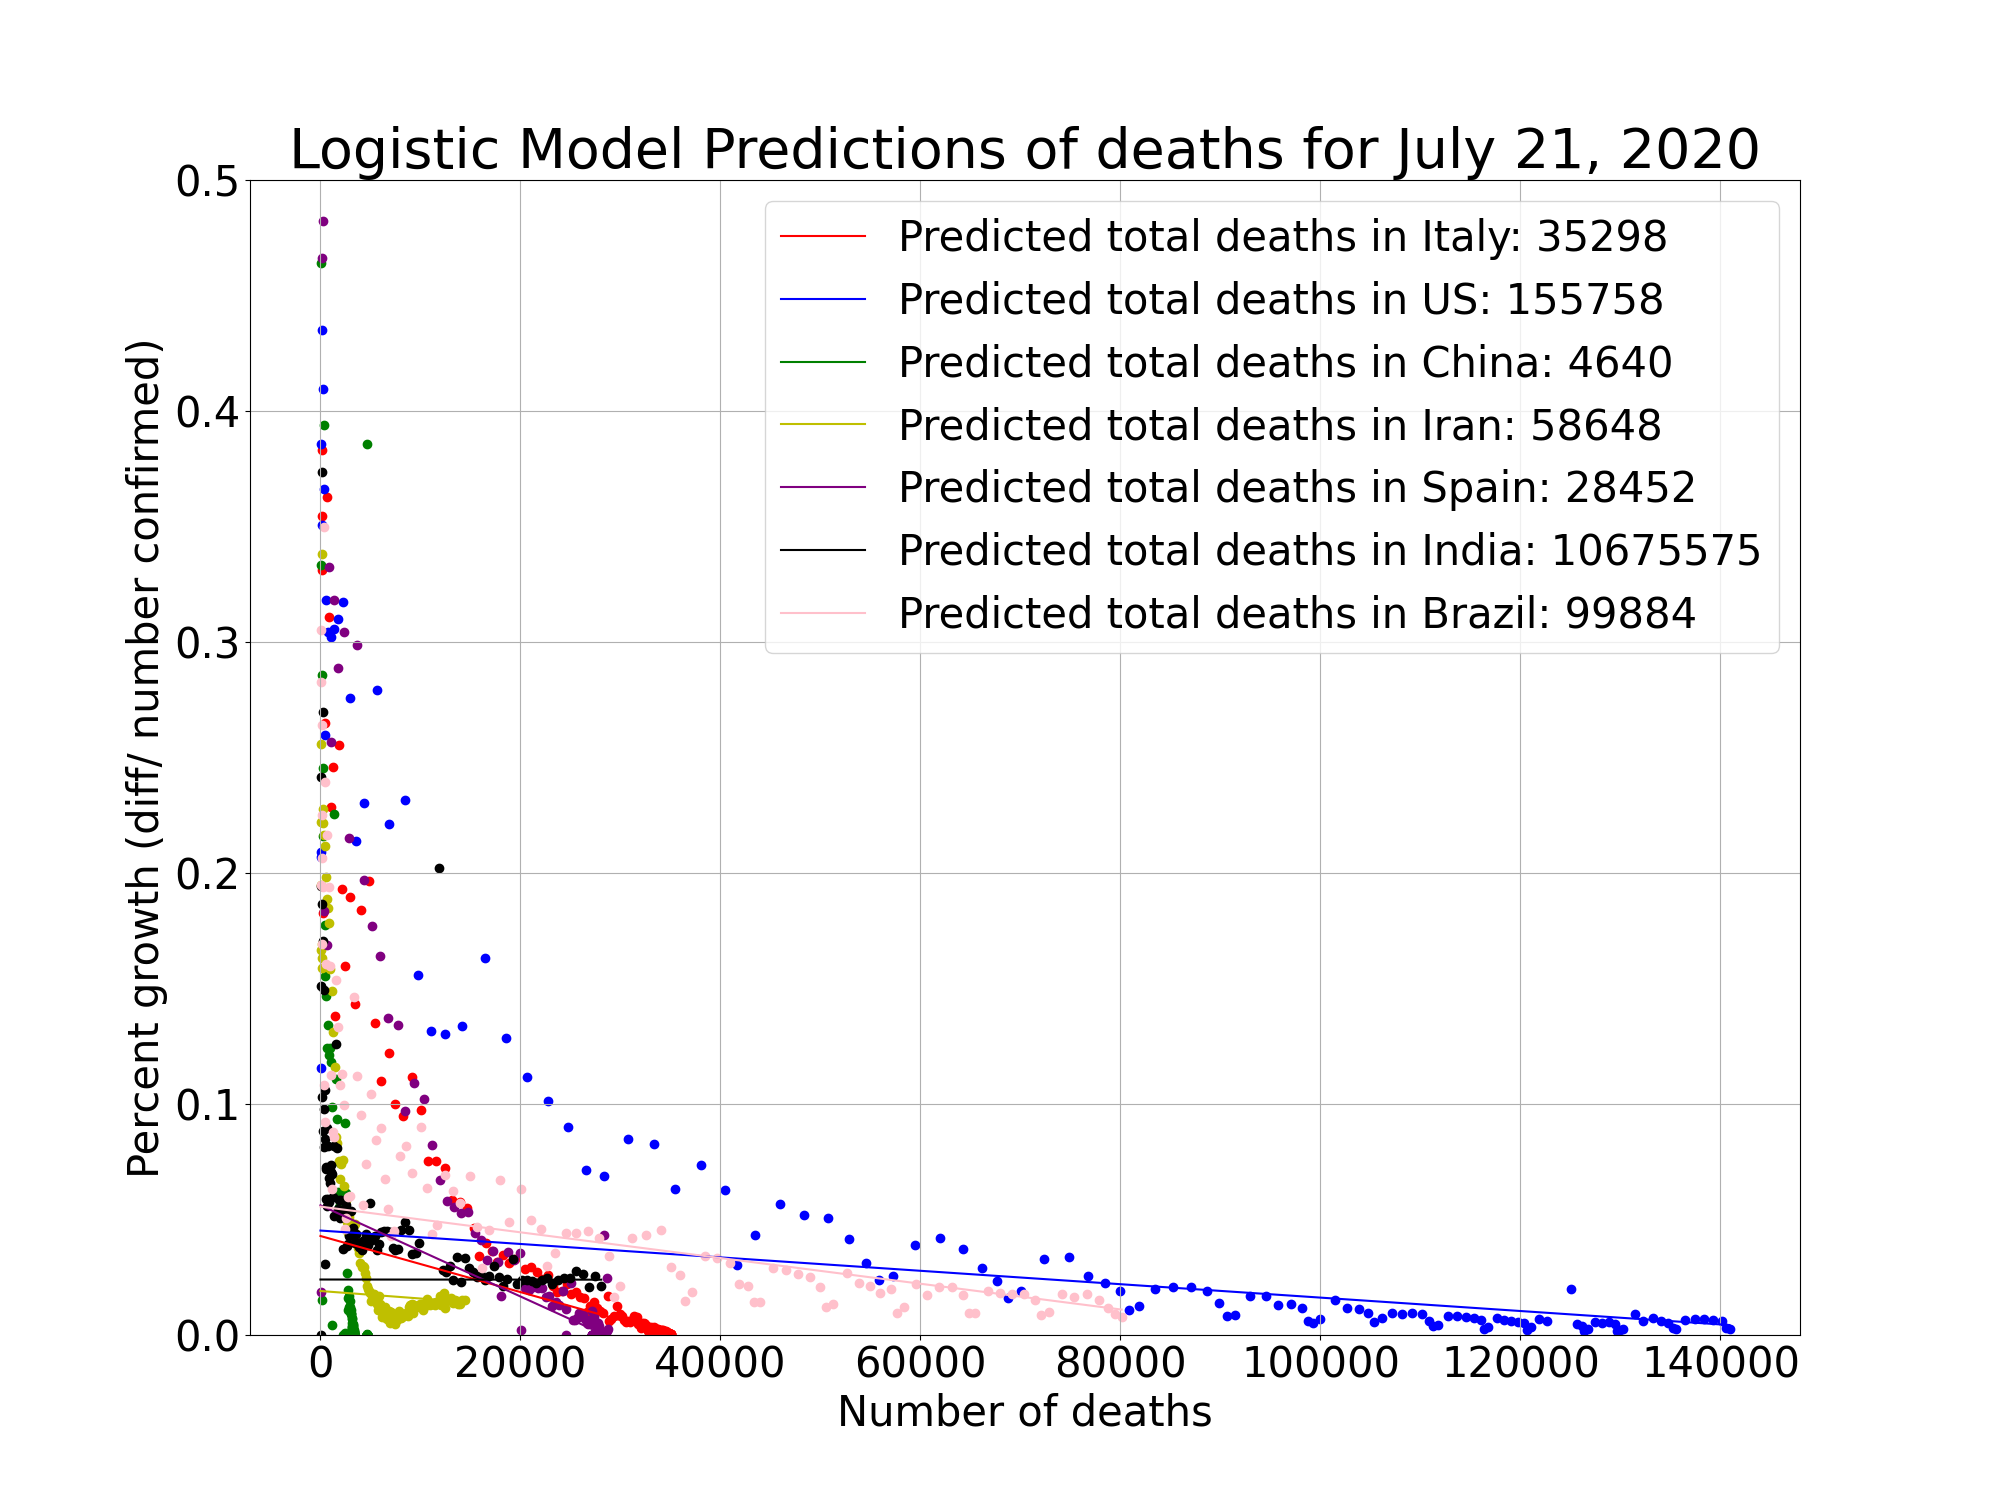
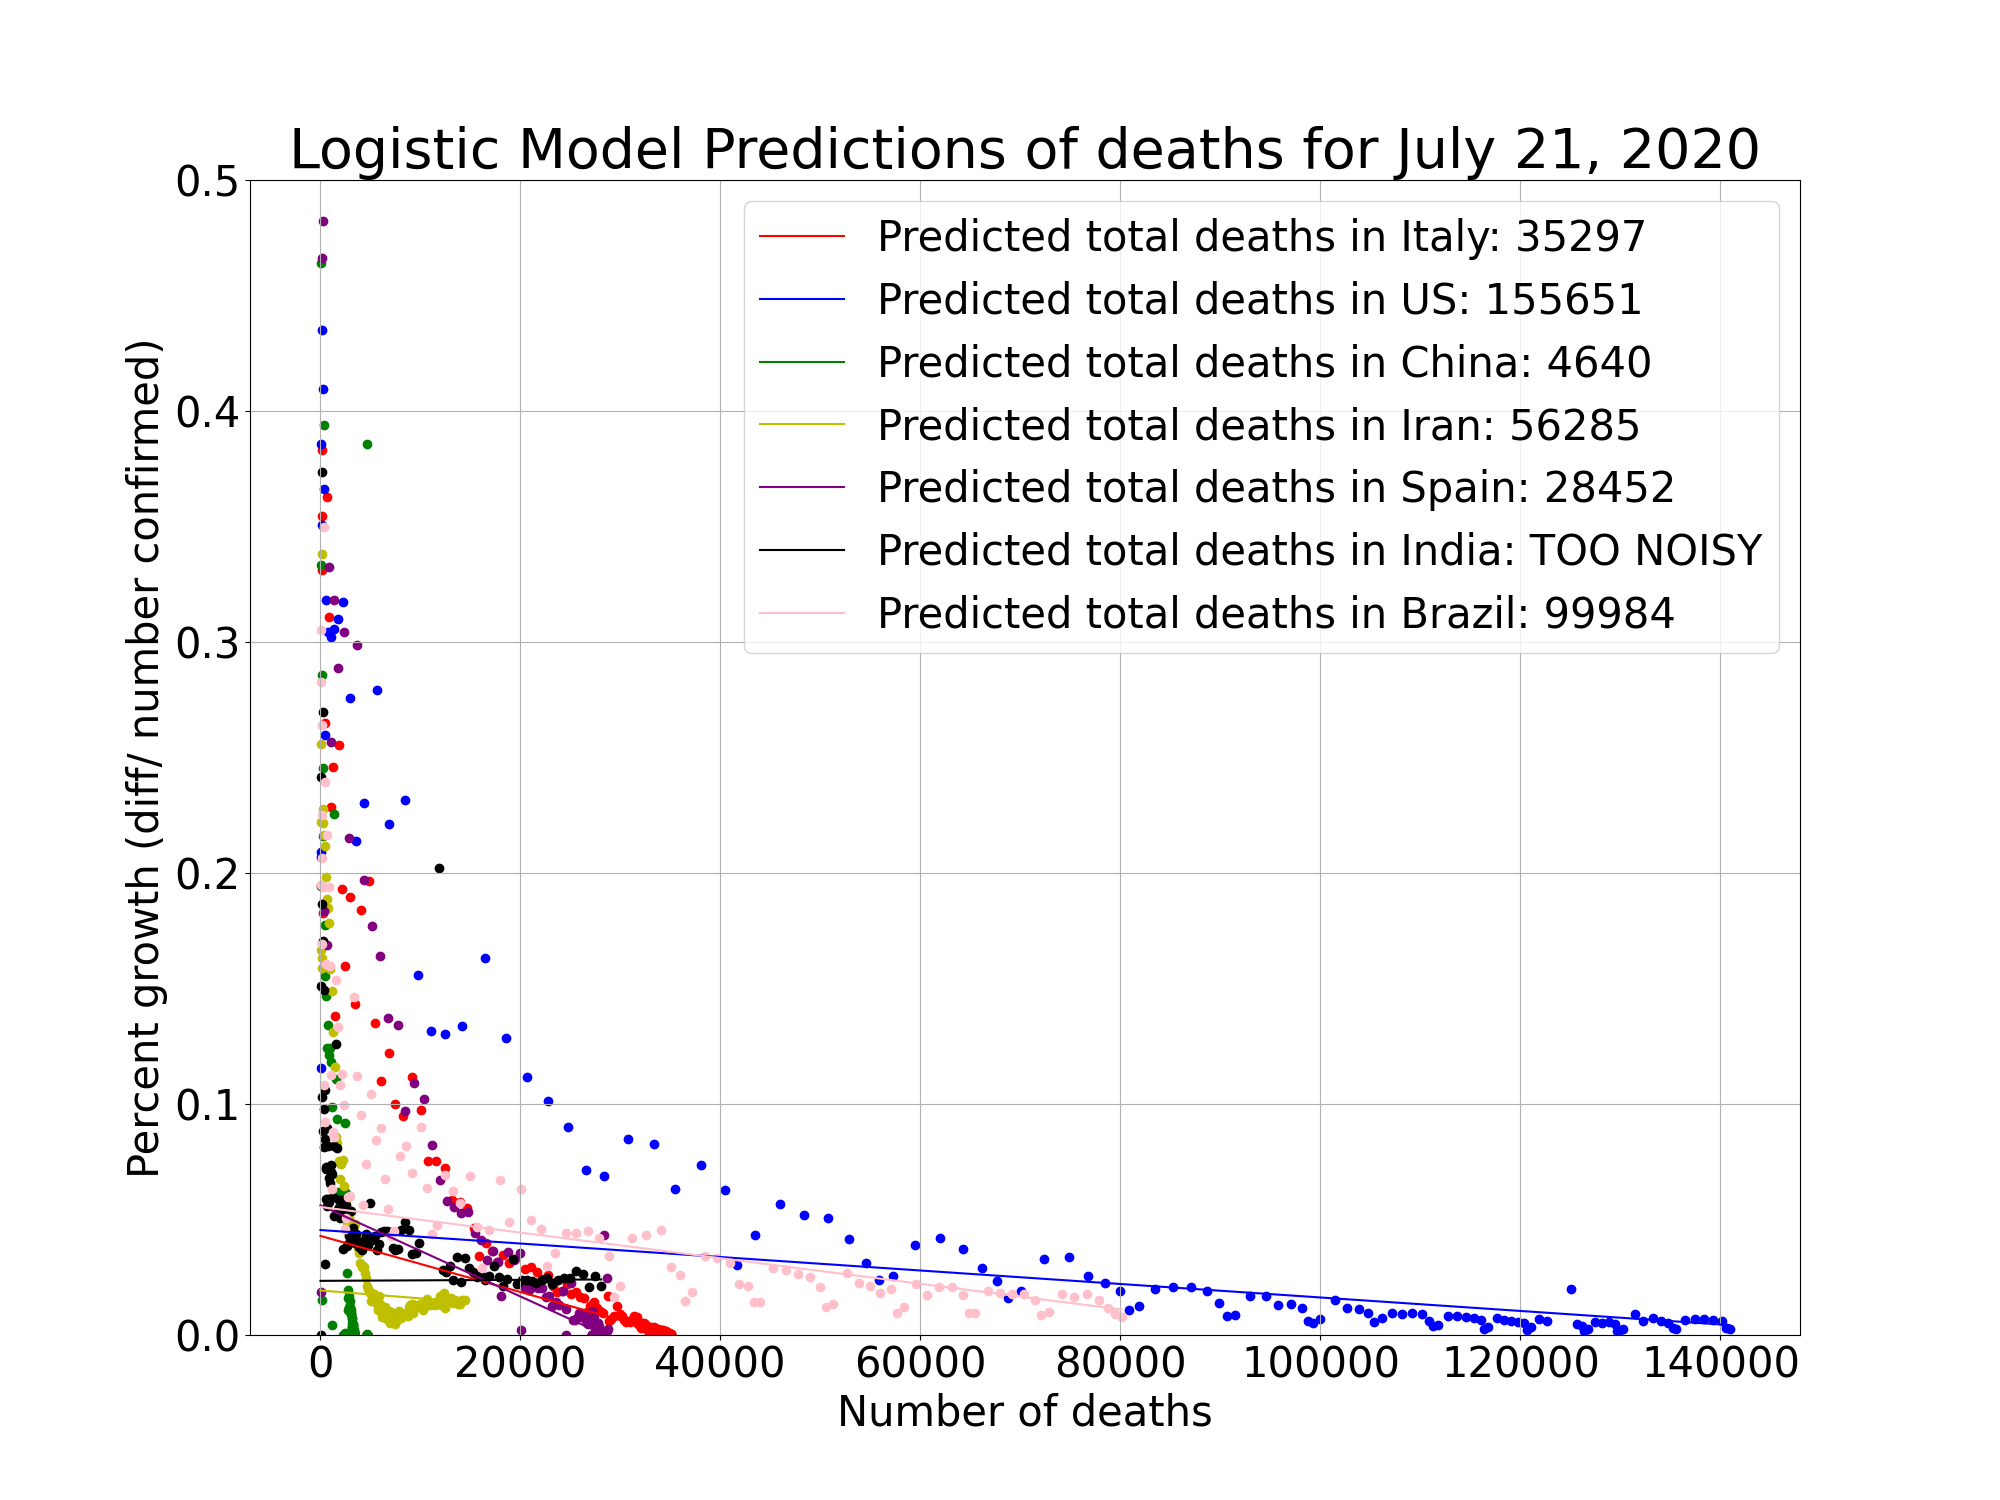
auto update

Changed region(s): [[0.434, 0.1227, 0.868, 0.4293]]

diff --git a/update_plots.py b/update_plots.py
@@ -62,7 +62,7 @@ for data_type in ("cases", "deaths"):
         plt.scatter(xdata, ydata, color=color)
 
         model.fit(
-            xdata.reshape((-1, 1))[-14:], ydata[-14:], sample_weight=xdata[-14:]
+            xdata.reshape((-1, 1))[-14:], ydata[-14:], 
         )
         x_intercept = -model.intercept_ / model.coef_
         try:
